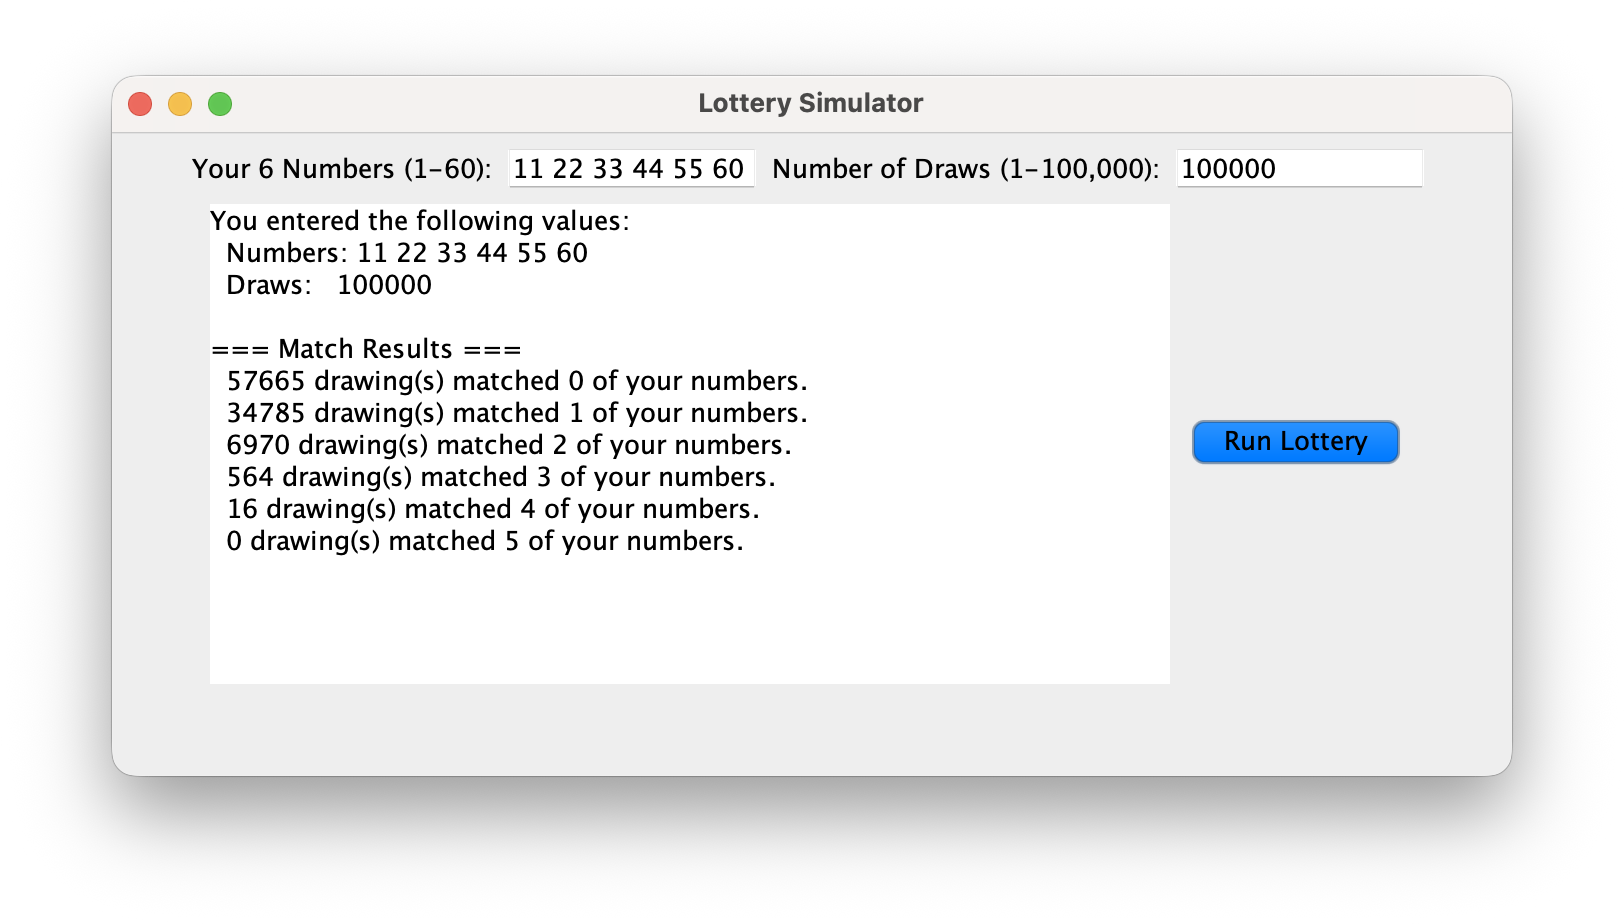
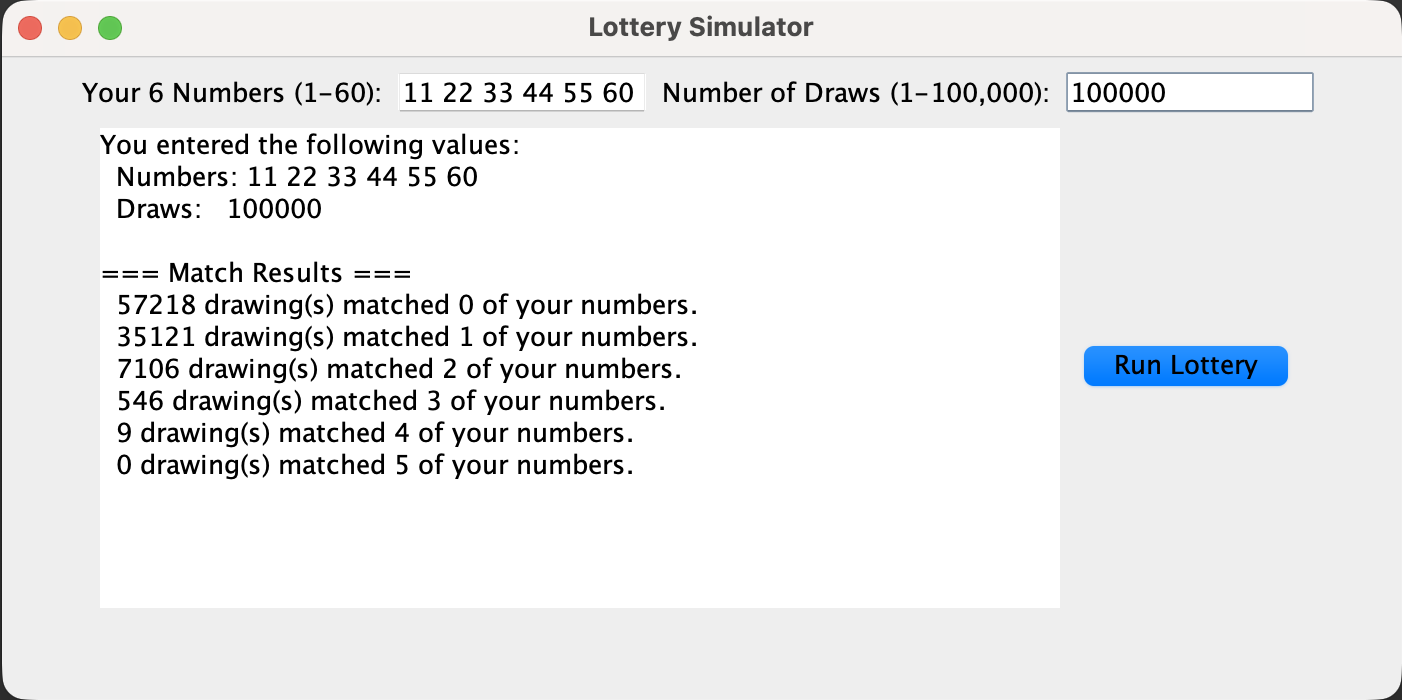
Update README.md with screenshots

diff --git a/README.md b/README.md
@@ -37,3 +37,28 @@ java Main
 - User Input Validation – Making sure the app handles invalid entries gracefully
 
 - Simulation Logic – Running thousands of lottery draws efficiently and tracking match results
+
+## Screenshots
+
+Run lottery with valid inputs:
+
+<img src="screenshots/LMVC-1-success.png" width="600" style="max-width:100%;/">
+<br><br>
+
+Error handling for invalid lottery numbers:
+
+<img src="screenshots/LMVC-2-numbers-invalid.png" width="600" style="max-width:100%;/">
+<br><br>
+
+Error handling for invalid number of draws:
+
+<img src="screenshots/LMVC-3-numDraws-invalid.png" width="600" style="max-width:100%;/">
+<br><br>
+
+Error handling for multiple invalid inputs:
+
+<img src="screenshots/LMVC-4-both-invalid.png" width="600" style="max-width:100%;/">
+<br><br>
+
+Error handling for blank inputs: 
+<img src="screenshots/LMVC-5-blank-invalid.png" width="600" style="max-width:100%;/">
